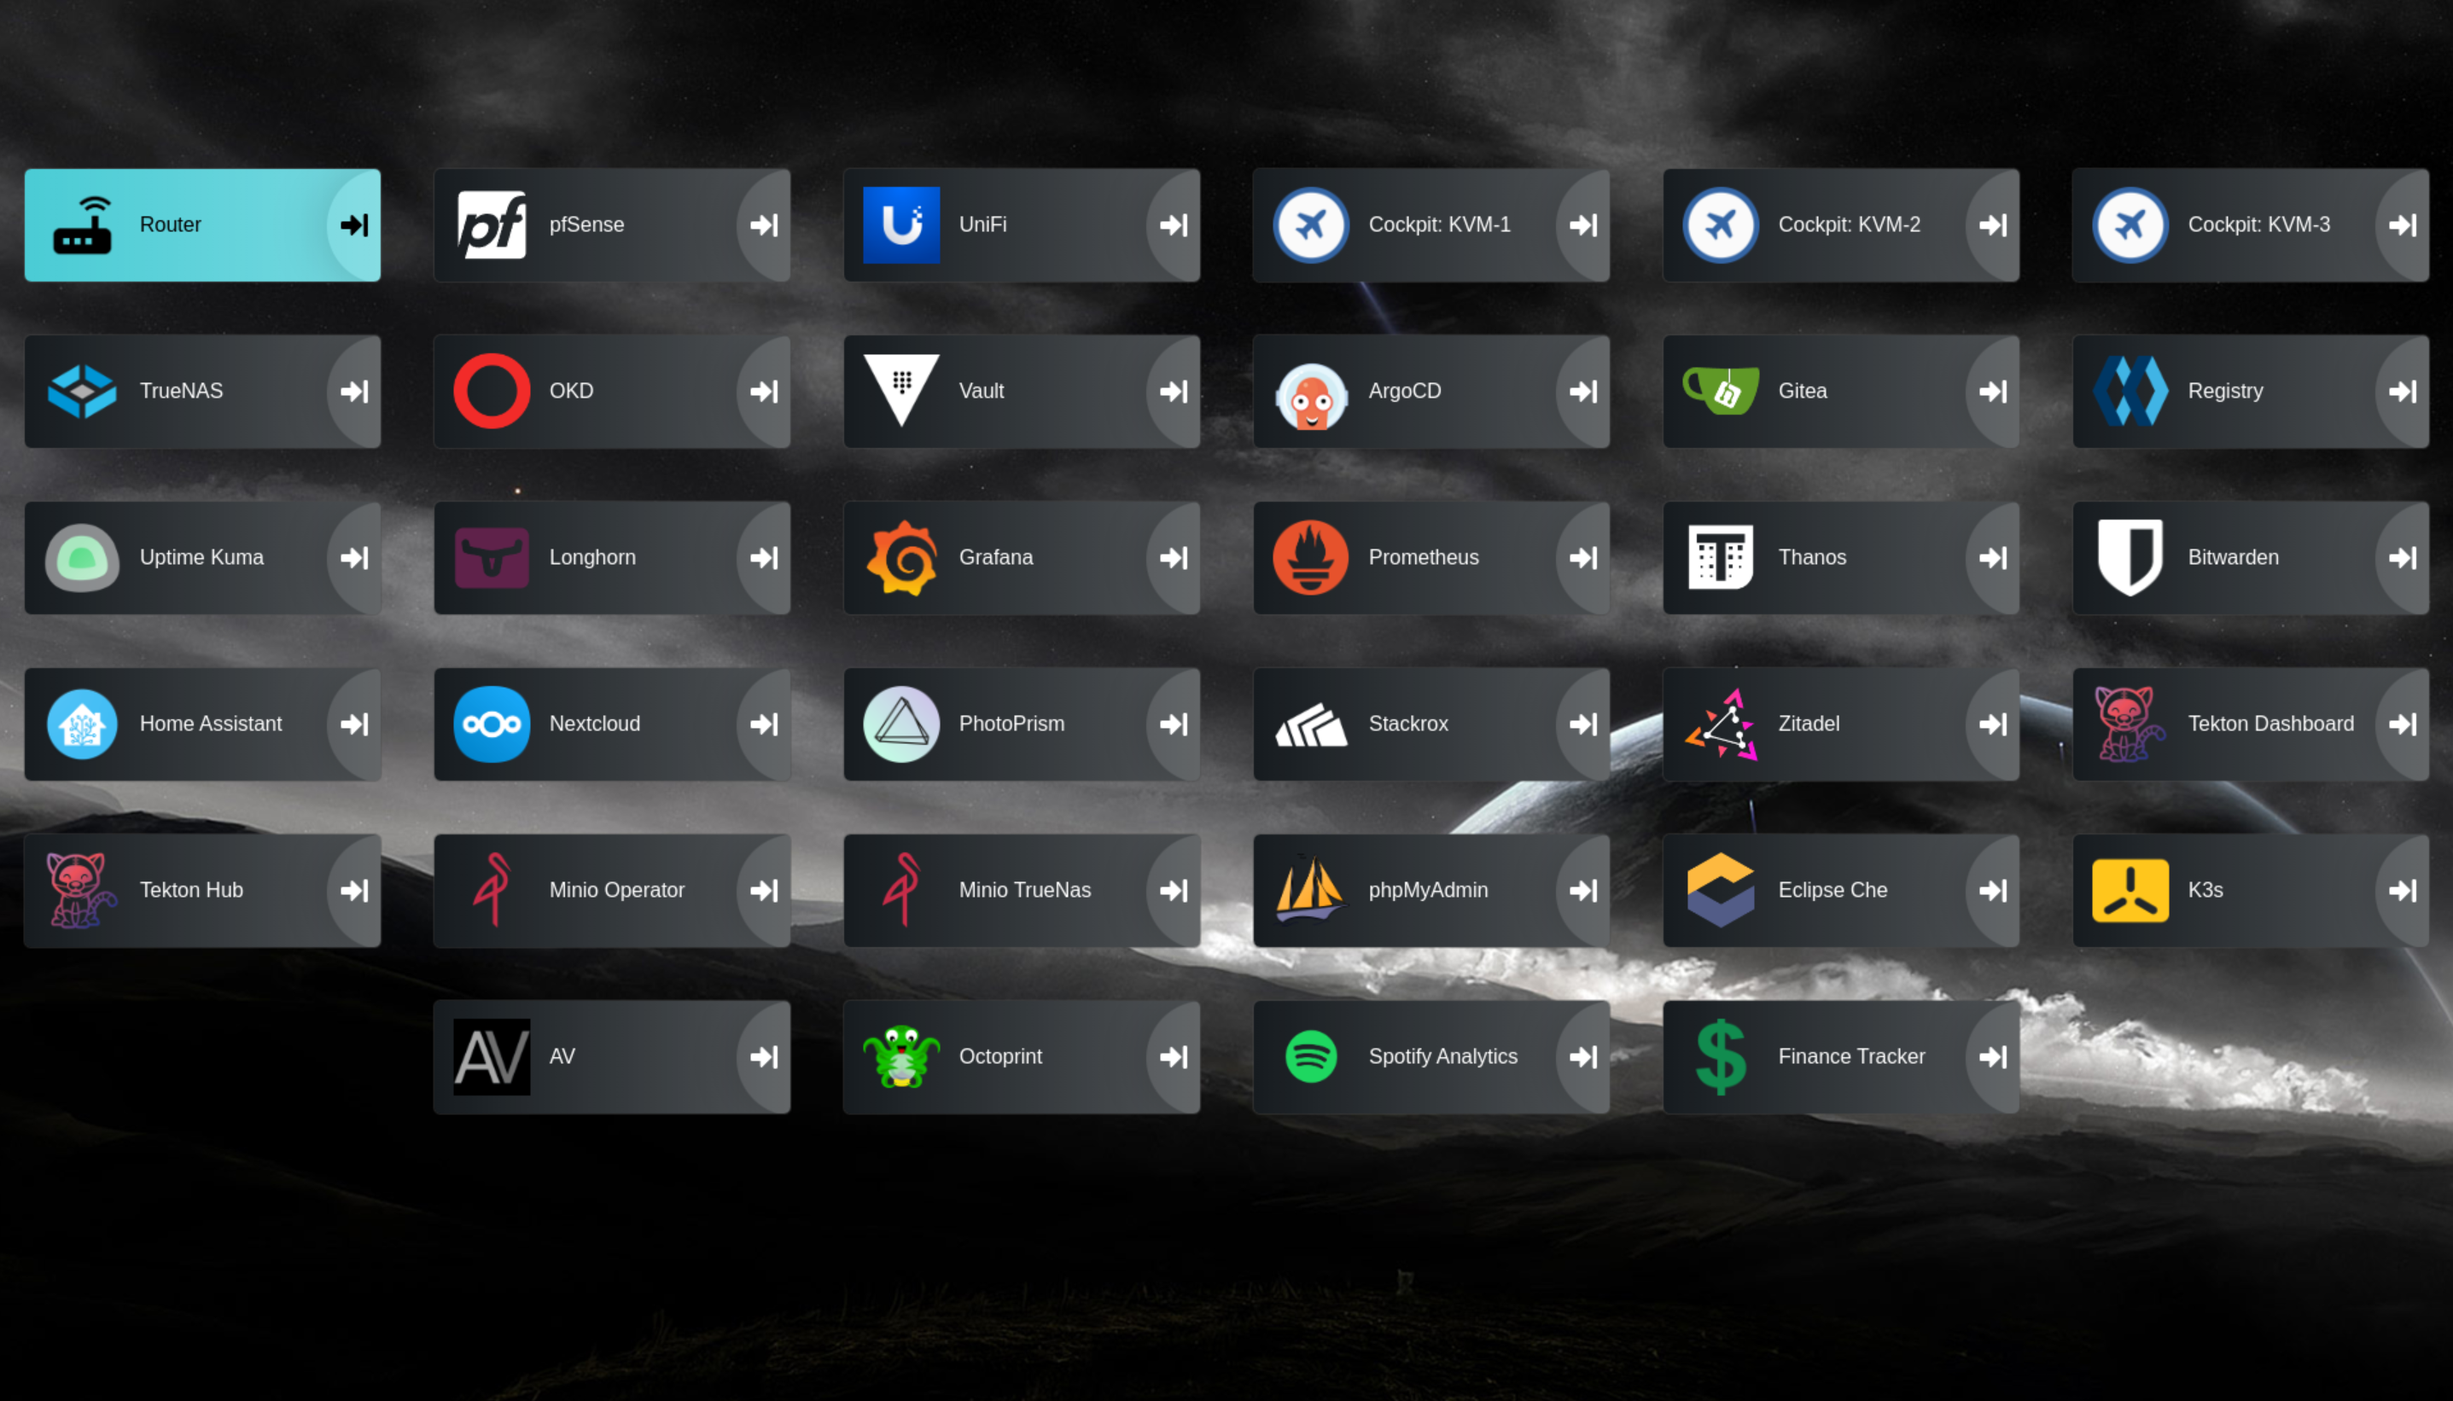
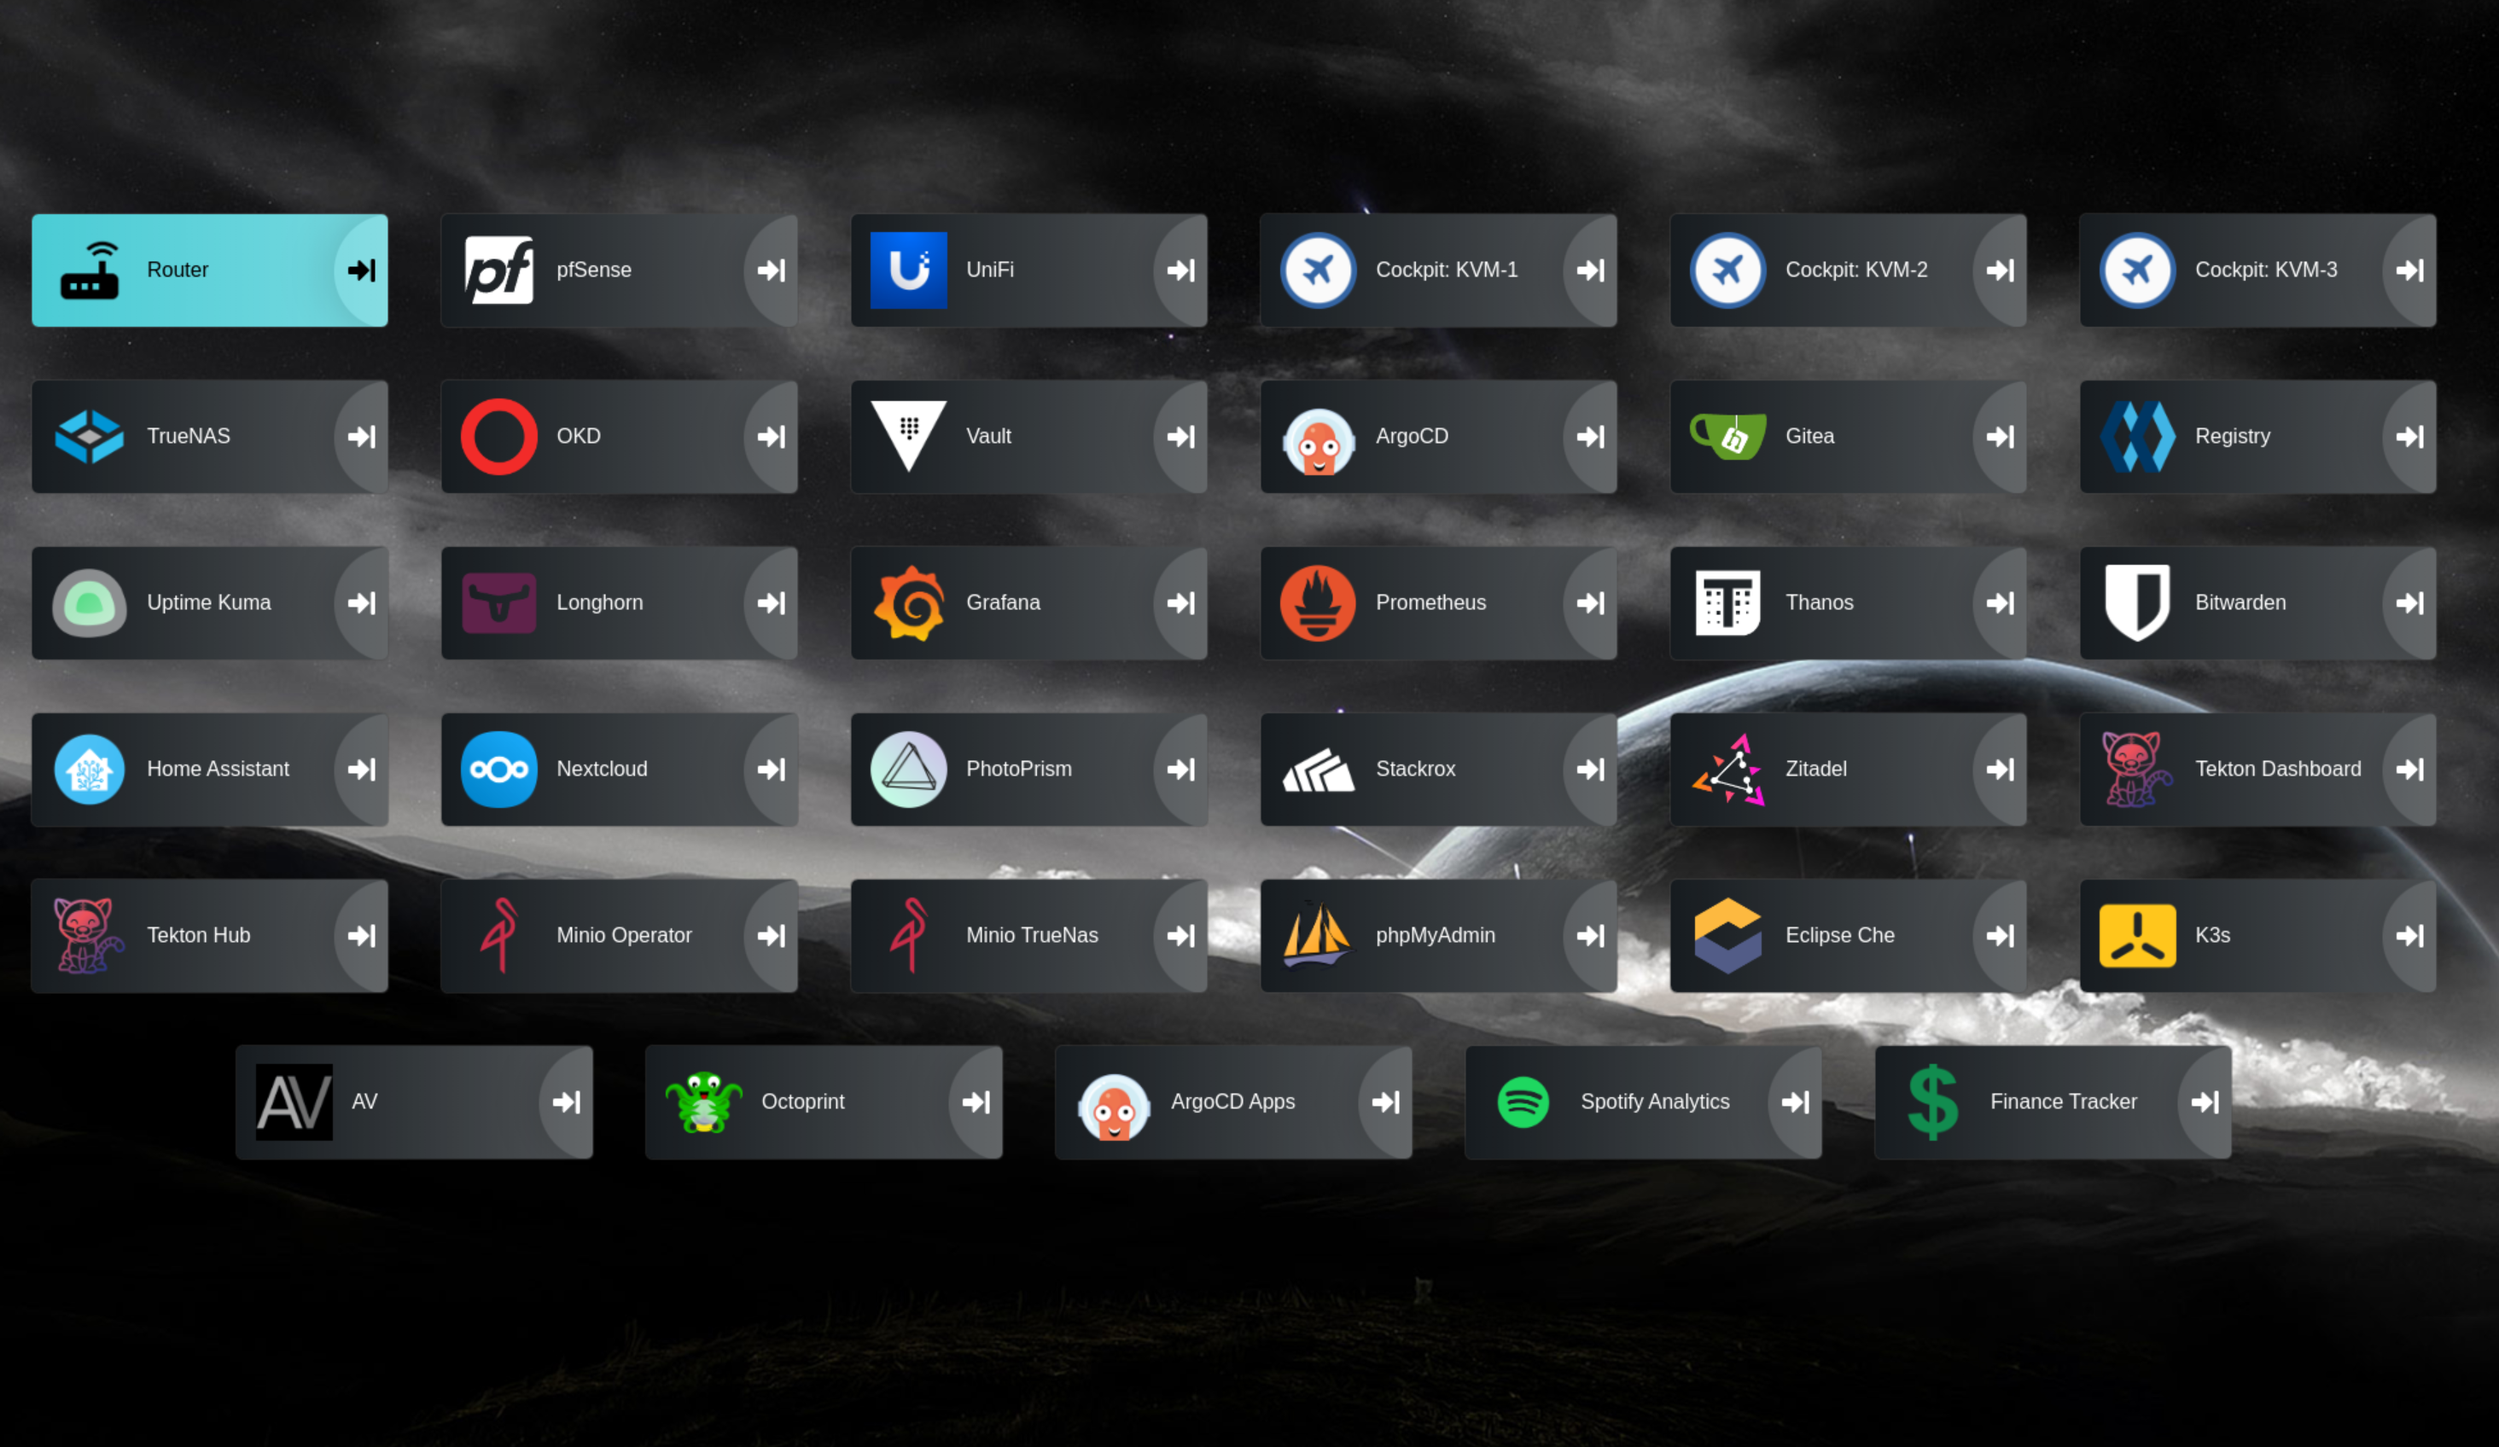
feat: ArgoCD App Instance (#43)

diff --git a/kubernetes/argocd/apps/README.md b/kubernetes/argocd/apps/README.md
@@ -1,0 +1,5 @@
+# ArgoCD Applications in Any Namespace
+
+<https://argocd-operator.readthedocs.io/en/latest/usage/apps-in-any-namespace/>
+<https://argocd-operator.readthedocs.io/en/latest/usage/basics/#cluster-scoped-instance>
+<https://argo-cd.readthedocs.io/en/stable/operator-manual/app-any-namespace/>
